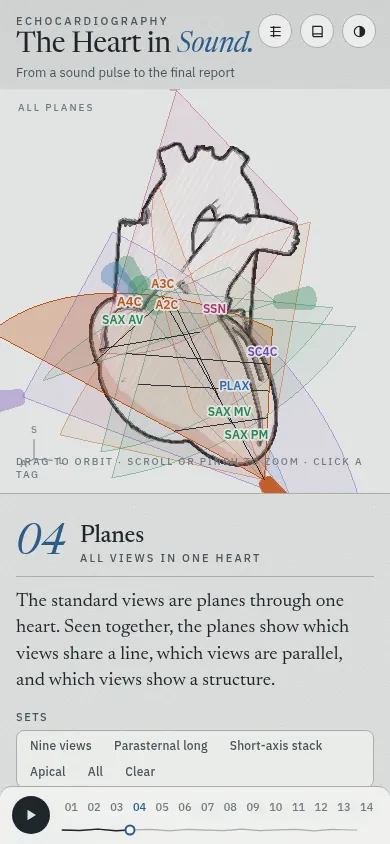
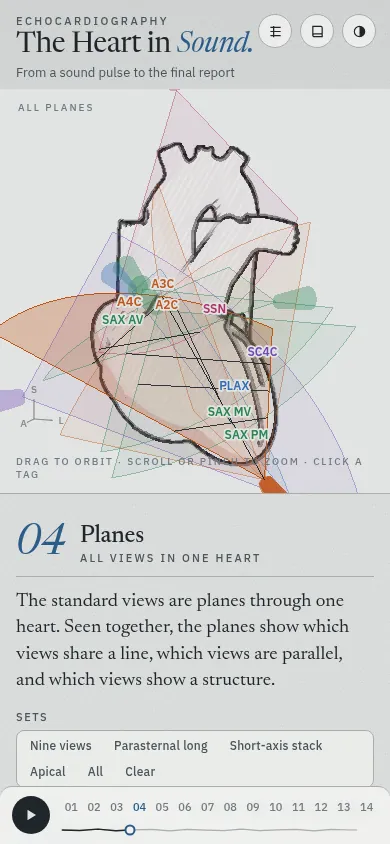
Keep the chapter 04 axis glyph clear of the hint text
On phones the "Drag to orbit" hint wraps to two lines and covered the
S/L/A axis glyph. The glyph now sits above the hint at every width.
Refresh the two chapter 04 screenshots in the README.

Claude-Session: https://claude.ai/code/session_01NtQNVy8YQ5NUAw3xwF3MnN

diff --git a/src/ch/planes.js b/src/ch/planes.js
@@ -325,8 +325,9 @@ function drawInk() {
     const p = stage.project(marker.position);
     tag(SNAME[S].name, p.x, p.y - 16, css.getPropertyValue('--flag').trim(), true, null);
   }
-  // body axes: patient left, superior, anterior
-  const ox = 34, oy = h - 34;
+  // body axes: patient left, superior, anterior; above the note, which wraps on phones
+  const note = document.getElementById('planes-note');
+  const ox = 34, oy = Math.min(h - 34, (note && note.offsetParent ? note.offsetTop : h) - 36);
   const axes = [[new T.Vector3(1, 0, 0), 'L'], [new T.Vector3(0, 1, 0), 'S'], [new T.Vector3(0, 0, 1), 'A']];
   ctx.font = `600 10px ${SANS}`;
   ctx.textAlign = 'center';
